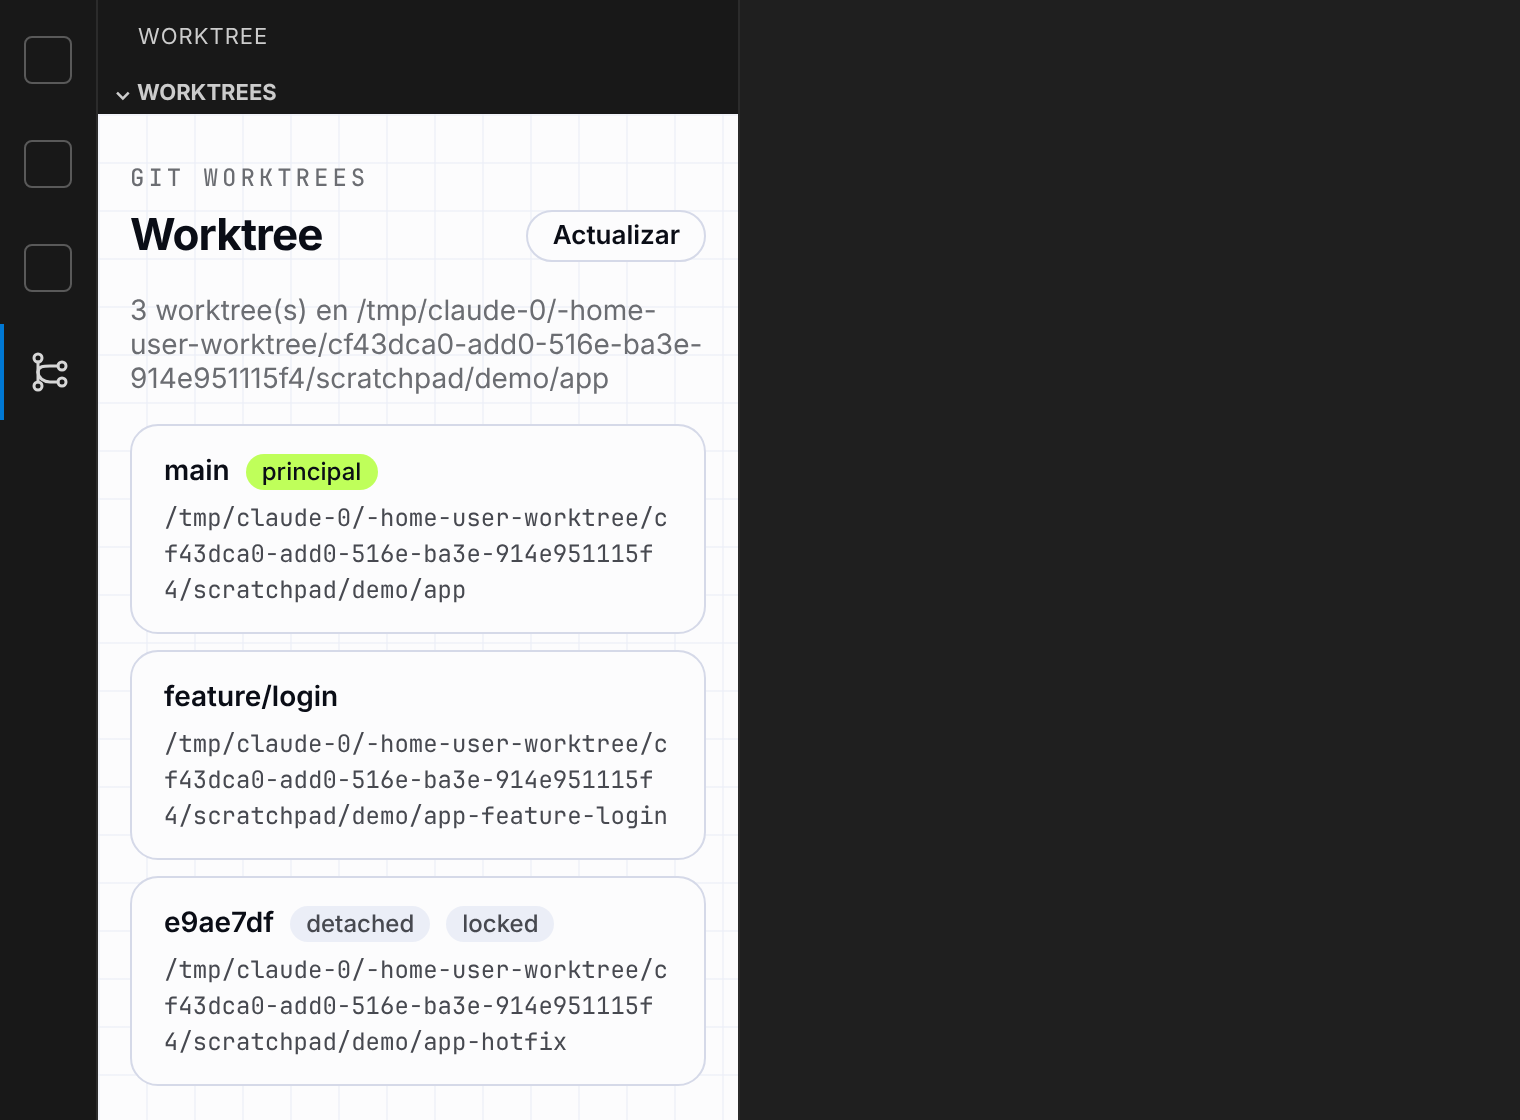
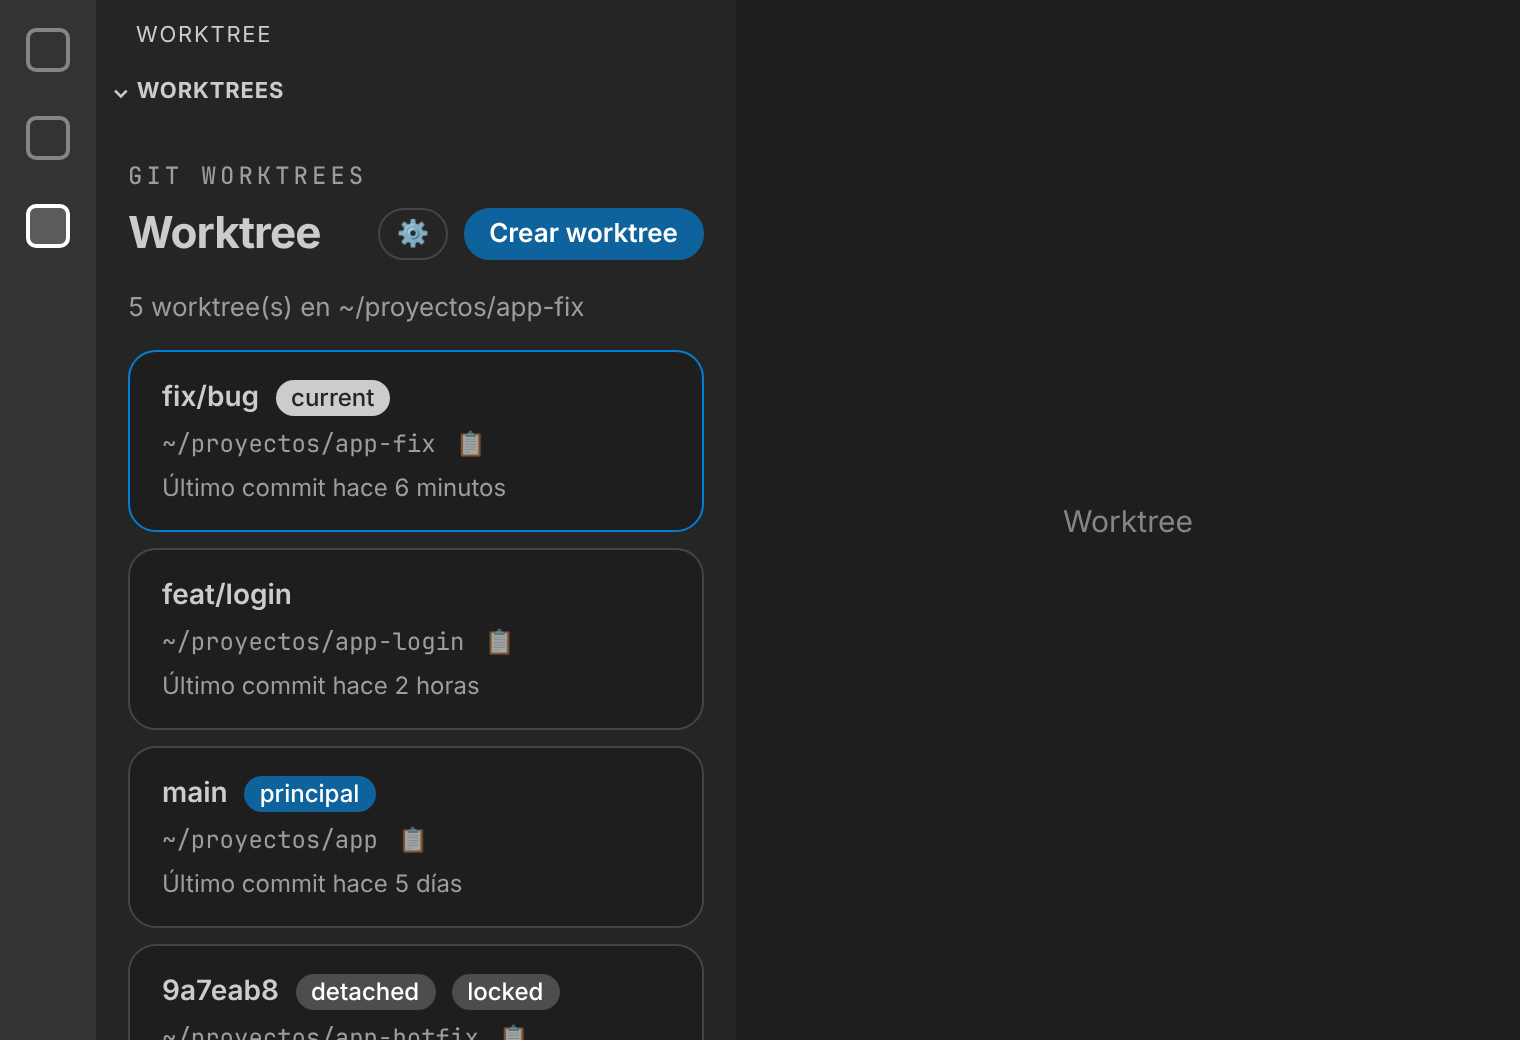
docs: generate the README screenshots with a script
Claude-Session: https://claude.ai/code/session_01BqvTdKhZZp67XxjuqU9VSp

diff --git a/scripts/screenshots.ts b/scripts/screenshots.ts
@@ -1,0 +1,156 @@
+/**
+ * Regenerates the README screenshots in docs/screenshots.
+ *
+ * Builds a throwaway git repo with a few worktrees, serves the real `web/` UI with the
+ * extension's own server and captures it with Playwright (Chromium).
+ *
+ *   bun run screenshots
+ *
+ * Set PLAYWRIGHT_CHROMIUM_PATH to use a Chromium binary other than Playwright's own.
+ */
+import { execFileSync, spawnSync } from "node:child_process";
+import { mkdirSync, mkdtempSync, rmSync, writeFileSync } from "node:fs";
+import { tmpdir } from "node:os";
+import { join, resolve } from "node:path";
+import { chromium, type Page } from "playwright";
+
+// The UI shortens paths under the home directory to `~`, and Node reads the home directory
+// at startup, so run again as a child process with a throwaway $HOME.
+if (!process.env.SHOTS_HOME) {
+  const home = mkdtempSync(join(tmpdir(), "worktree-shots-"));
+  try {
+    const { status } = spawnSync(process.execPath, [import.meta.path], { stdio: "inherit", env: { ...process.env, HOME: home, SHOTS_HOME: home } });
+    process.exitCode = status ?? 1;
+  } finally {
+    rmSync(home, { recursive: true, force: true });
+  }
+  process.exit();
+}
+const home = process.env.SHOTS_HOME;
+const { startWebServer } = await import("../src/server");
+const { setBaseBranch } = await import("../src/worktrees");
+
+const root = resolve(import.meta.dir, "..");
+const outDir = join(root, "docs", "screenshots");
+mkdirSync(outDir, { recursive: true });
+
+const gitEnv = { ...process.env, GIT_AUTHOR_NAME: "Demo", GIT_AUTHOR_EMAIL: "demo@example.com", GIT_COMMITTER_NAME: "Demo", GIT_COMMITTER_EMAIL: "demo@example.com" };
+
+function git(cwd: string, ...args: string[]): void {
+  execFileSync("git", args, { cwd, env: gitEnv, stdio: "ignore" });
+}
+
+/** Commits in `cwd` with the given age so the relative dates in the UI are stable. */
+function commit(cwd: string, message: string, secondsAgo: number): void {
+  const date = `${Math.floor(Date.now() / 1000) - secondsAgo} +0000`;
+  execFileSync("git", ["commit", "--allow-empty", "-m", message], {
+    cwd,
+    env: { ...gitEnv, GIT_AUTHOR_DATE: date, GIT_COMMITTER_DATE: date },
+    stdio: "ignore",
+  });
+}
+
+const projects = join(home, "proyectos");
+const app = join(projects, "app");
+mkdirSync(app, { recursive: true });
+git(app, "init", "-q", "-b", "main");
+commit(app, "chore: initial commit", 5 * 86400);
+git(app, "worktree", "add", "-q", "-b", "feat/login", join(projects, "app-login"));
+commit(join(projects, "app-login"), "feat: login form", 2 * 3600);
+git(app, "worktree", "add", "-q", "-b", "fix/bug", join(projects, "app-fix"));
+commit(join(projects, "app-fix"), "fix: handle empty list", 6 * 60);
+git(app, "worktree", "add", "-q", "--detach", join(projects, "app-hotfix"), "main");
+git(app, "worktree", "lock", join(projects, "app-hotfix"));
+await setBaseBranch(app, "main");
+// The folder where the extension creates new worktrees is `.worktree/` by default.
+writeFileSync(join(app, ".gitignore"), ".worktree/\n");
+
+const current = join(projects, "app-fix");
+const server = await startWebServer(join(root, "web"), { cwd: () => current, open: async () => {} });
+
+const browser = await chromium.launch({ executablePath: process.env.PLAYWRIGHT_CHROMIUM_PATH || undefined });
+const context = await browser.newContext({ viewport: { width: 380, height: 520 }, deviceScaleFactor: 2, permissions: ["clipboard-read", "clipboard-write"] });
+
+async function open(): Promise<Page> {
+  const page = await context.newPage();
+  await page.goto(server.url);
+  await page.locator("#list li").first().waitFor();
+  return page;
+}
+
+const shot = (page: Page, name: string) => page.screenshot({ path: join(outDir, `${name}.png`) });
+
+try {
+  let page = await open();
+  await shot(page, "current");
+
+  await page.locator("#list li", { hasText: "feat/login" }).click({ button: "right", position: { x: 120, y: 30 } });
+  await page.locator("#menu:not([hidden])").waitFor();
+  await shot(page, "menu-abrir");
+  await page.close();
+
+  page = await open();
+  await page.locator("#list li", { hasText: "feat/login" }).locator(".copy").click();
+  await page.locator("#list li .copy", { hasText: "✅" }).waitFor();
+  await shot(page, "copiar-ruta");
+  await page.close();
+
+  page = await open();
+  await page.click("#settings-toggle");
+  await page.locator("#settings:not([hidden])").waitFor();
+  await page.fill("[name=worktreesDir]", ".trees");
+  await page.locator("[name=worktreesDir]").dispatchEvent("change");
+  await page.locator("#settings-message", { hasText: "Guardado" }).waitFor();
+  await shot(page, "configuracion");
+  await page.fill("[name=worktreesDir]", ".worktree");
+  await page.locator("[name=worktreesDir]").dispatchEvent("change");
+  await page.close();
+
+  page = await open();
+  await page.click("#create");
+  await page.fill("[name=branch]", "feat/dashboard");
+  await shot(page, "crear-worktree-formulario");
+  await page.click("#create-form button[type=submit]");
+  await page.locator("#list li", { hasText: "feat/dashboard" }).waitFor();
+  await shot(page, "crear-worktree-resultado");
+  await page.close();
+
+  // Worktrees with `detached` / `locked` badges, among the first in the list.
+  page = await open();
+  await page.mouse.move(0, 0);
+  await shot(page, "estados");
+  await page.close();
+
+  // The view inside VS Code: a dark frame (activity bar + side bar) hosting the real UI.
+  const vscode = await browser.newContext({ viewport: { width: 760, height: 520 }, deviceScaleFactor: 2 });
+  page = await vscode.newPage();
+  await page.setContent(`<!doctype html><style>
+    *{box-sizing:border-box}body{margin:0;display:flex;height:100vh;background:#1e1e1e;font:13px system-ui,sans-serif;color:#ccc}
+    .bar{width:48px;background:#333;display:flex;flex-direction:column;align-items:center;gap:22px;padding-top:14px}
+    .bar i{width:22px;height:22px;border:2px solid #858585;border-radius:5px}.bar i.on{border-color:#fff;background:#fff3}
+    .side{width:320px;background:#252526;display:flex;flex-direction:column}
+    .side h1{margin:0;font-size:11px;letter-spacing:.08em;font-weight:400;padding:10px 20px}
+    .side h2{margin:0;font-size:11px;font-weight:700;padding:4px 8px;letter-spacing:.04em}
+    iframe{flex:1;border:0;background:#252526}
+    .ed{flex:1;display:flex;align-items:center;justify-content:center;color:#858585;font-size:15px}
+  </style><div class="bar"><i></i><i></i><i class="on"></i></div>
+  <div class="side"><h1>WORKTREE</h1><h2>⌄ WORKTREES</h2><iframe src="${server.url}"></iframe></div>
+  <div class="ed">Worktree</div>`);
+  const frame = page.frameLocator("iframe");
+  await frame.locator("#list li").first().waitFor();
+  await page.evaluate(() => {
+    const vars = {
+      "--vscode-sideBar-background": "#252526", "--vscode-editor-background": "#1e1e1e", "--vscode-foreground": "#cccccc",
+      "--vscode-descriptionForeground": "#9d9d9d", "--vscode-button-background": "#0e639c", "--vscode-button-foreground": "#ffffff",
+      "--vscode-button-hoverBackground": "#1177bb", "--vscode-input-background": "#3c3c3c", "--vscode-input-foreground": "#cccccc",
+      "--vscode-widget-border": "#454545", "--vscode-panel-border": "#454545", "--vscode-badge-background": "#4d4d4d",
+      "--vscode-badge-foreground": "#ffffff", "--vscode-focusBorder": "#007fd4", "--vscode-list-hoverBackground": "#2a2d2e",
+    };
+    document.querySelector("iframe")!.contentWindow!.postMessage({ type: "vscode-theme", kind: "dark", vars }, "*");
+  });
+  await page.waitForTimeout(300);
+  await shot(page, "vscode");
+} finally {
+  await browser.close();
+  await server.close();
+}

diff --git a/README.md b/README.md
@@ -35,7 +35,7 @@ los worktrees del repositorio abierto:
   </tr>
   <tr>
     <td align="center" valign="top"><img src="docs/screenshots/copiar-ruta.png" alt="Copiar ruta" width="100%"><br><sub>Copiar ruta</sub></td>
-    <td align="center" valign="top"><img src="docs/screenshots/rutas-tilde.png" alt="Rutas con ~" width="100%"><br><sub>Rutas con ~</sub></td>
+    <td align="center" valign="top"><img src="docs/screenshots/estados.png" alt="Estados" width="100%"><br><sub>Estados y rutas con ~</sub></td>
     <td align="center" valign="top"><img src="docs/screenshots/crear-worktree-formulario.png" alt="Crear worktree" width="100%"><br><sub>Crear worktree</sub></td>
     <td align="center" valign="top"><img src="docs/screenshots/crear-worktree-resultado.png" alt="Worktree creado" width="100%"><br><sub>Worktree creado</sub></td>
   </tr>
@@ -91,6 +91,9 @@ Otros scripts:
 - `bun run watch`: recompila al guardar.
 - `bun run typecheck`: revisa los tipos con TypeScript.
 - `bun test`: ejecuta los tests.
+- `bun run screenshots`: regenera las capturas de `docs/screenshots/` (crea un repo demo
+  temporal, levanta la UI real y la captura con Playwright; define
+  `PLAYWRIGHT_CHROMIUM_PATH` para usar otro Chromium).
 
 También puedes usar <kbd>F5</kbd> dentro de VS Code (configuración *Run Extension*).
 
